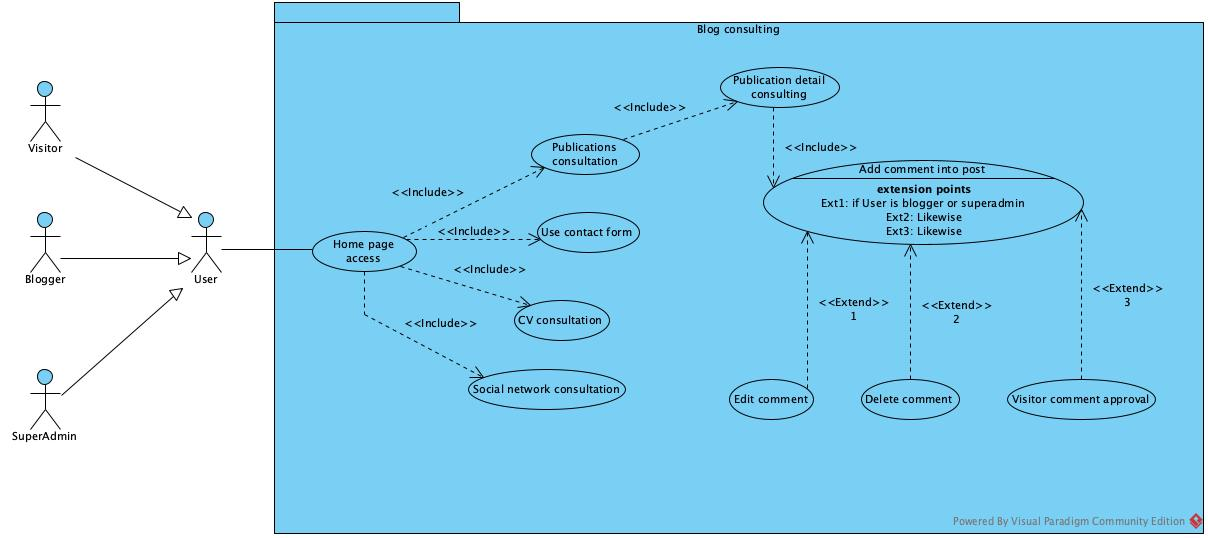
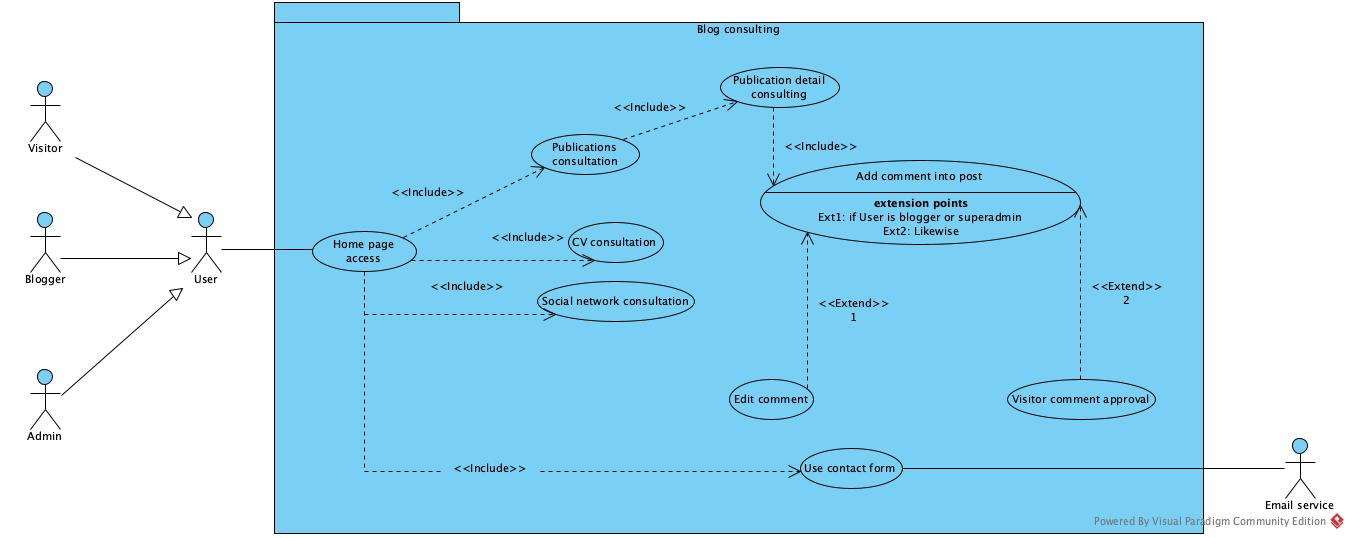
feat 1 create readme and fix diagrams

diff --git a/view/userView.php b/view/userView.php
@@ -1,4 +1,4 @@
-<?php $title = 'User'; ?>
+<?php $title = 'Utilisateur'; ?>
 
 <?php ob_start(); ?>
 
@@ -10,16 +10,37 @@
         <div class="row">
             <div class="col-lg-8 col-md-10 mx-auto">
                 <div class="site-heading">
-                    <h1>User</h1>
-                    <span class="subheading">A Blog Theme by Start Bootstrap</span>
+                    <h1><?= htmlspecialchars($user->firstname()) ?></strong>  <?= htmlspecialchars($user->lastname()) ?></h1>
                      <p>
-                         <strong><?= htmlspecialchars($user->firstname()) ?></strong>  <?= htmlspecialchars($user->lastname()) ?>
+                         posts
                      </p>
                 </div>
             </div>
         </div>
     </div>
 </header>
+
+<div class="container">
+    <div class="row">
+        <div class="col-lg-8 col-md-10 mx-auto">
+            <div>
+                <?php if (isset($posts) && count($posts) > 0) : ?>
+                    <?php foreach ($posts as $post) { ?>
+                        <div class="post-preview">
+                            <a href=<?php echo '/?action=post&id=' . $post->id() ?>>
+                                <h2 class="post-title"><?= htmlspecialchars($post->title()) ?></h2>
+                                <h3 class="post-subtitle"><?= htmlspecialchars($post->header()) ?></h3>
+                            </a>
+                        </div>
+                        <?php if (next($posts)) :  ?>
+                            <hr />
+                        <?php endif; ?>
+                    <?php } ?>
+                <?php endif; ?>
+            </div>
+        </div>
+    </div>
+</div>
 
 <?php include_once 'footer.php'?>
 

diff --git a/model/Manager.php b/model/Manager.php
@@ -21,8 +21,10 @@ abstract class Manager
             return self::$dbConnect;
         }
 
+        $username = "sergio";
+        $password = "xsgh8837";
         try {
-            self::$dbConnect = new \PDO('mysql:host=localhost;dbname=blog_ocr;charset=utf8', 'sergio', 'xsgh8837', array(\PDO::ATTR_ERRMODE => \PDO::ERRMODE_EXCEPTION));
+            self::$dbConnect = new \PDO('mysql:host=localhost;dbname=blog_ocr;charset=utf8', $username, $password, array(\PDO::ATTR_ERRMODE => \PDO::ERRMODE_EXCEPTION));
             return self::$dbConnect;
         } catch (Exception $e) {
             throw new Exception("Erreur de connexion à la base de données");

diff --git a/controller/index.php b/controller/index.php
@@ -428,6 +428,7 @@ class Controller
 
         if (isset($id)) {
             $user = $this->userManager->getUser($id);
+            $posts = $this->publicationManager->getPublicationsByUserId($id);
             require('view/userView.php');
         } else {
             require('view/usersView.php');

diff --git a/README.md b/README.md
@@ -1,1 +1,11 @@
-# OCR_05_php-blog
+# OCR_05_php-blog Installation:
+
+## Base de donées
+importez la base de données qui correspon au fichier blog_ocr.sql
+
+## Projet
+
+Sur votre console lancez :  ```composer install```
+
+Dans le fichier model/manager, modifiez la configuration de connection avec la base de données,
+modifiez les variables ```username``` et ```password```
